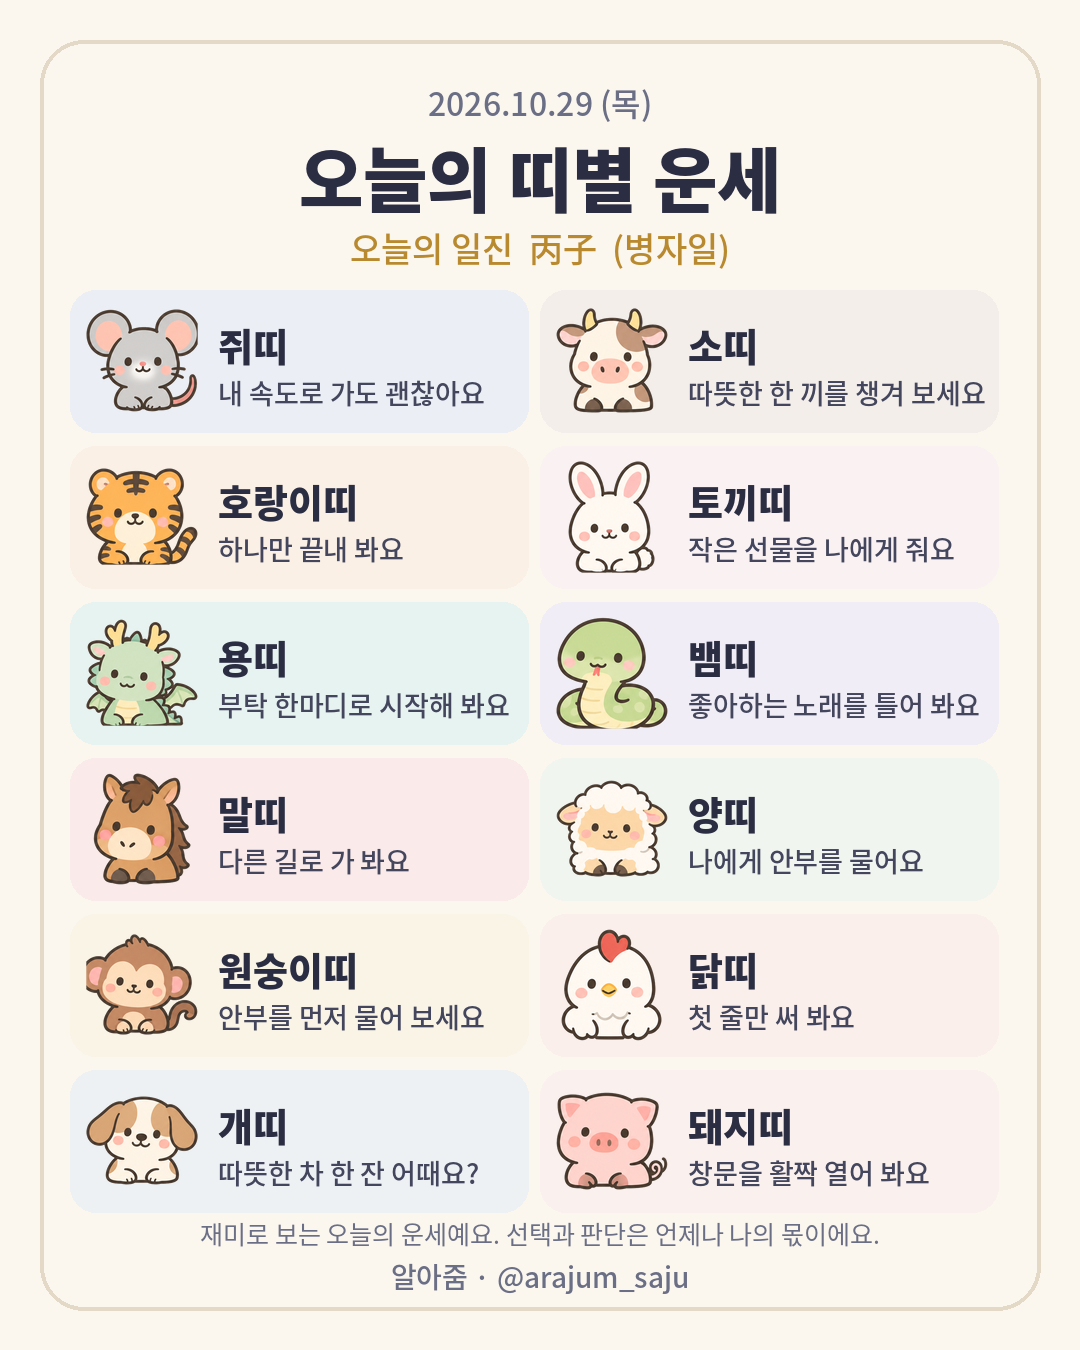
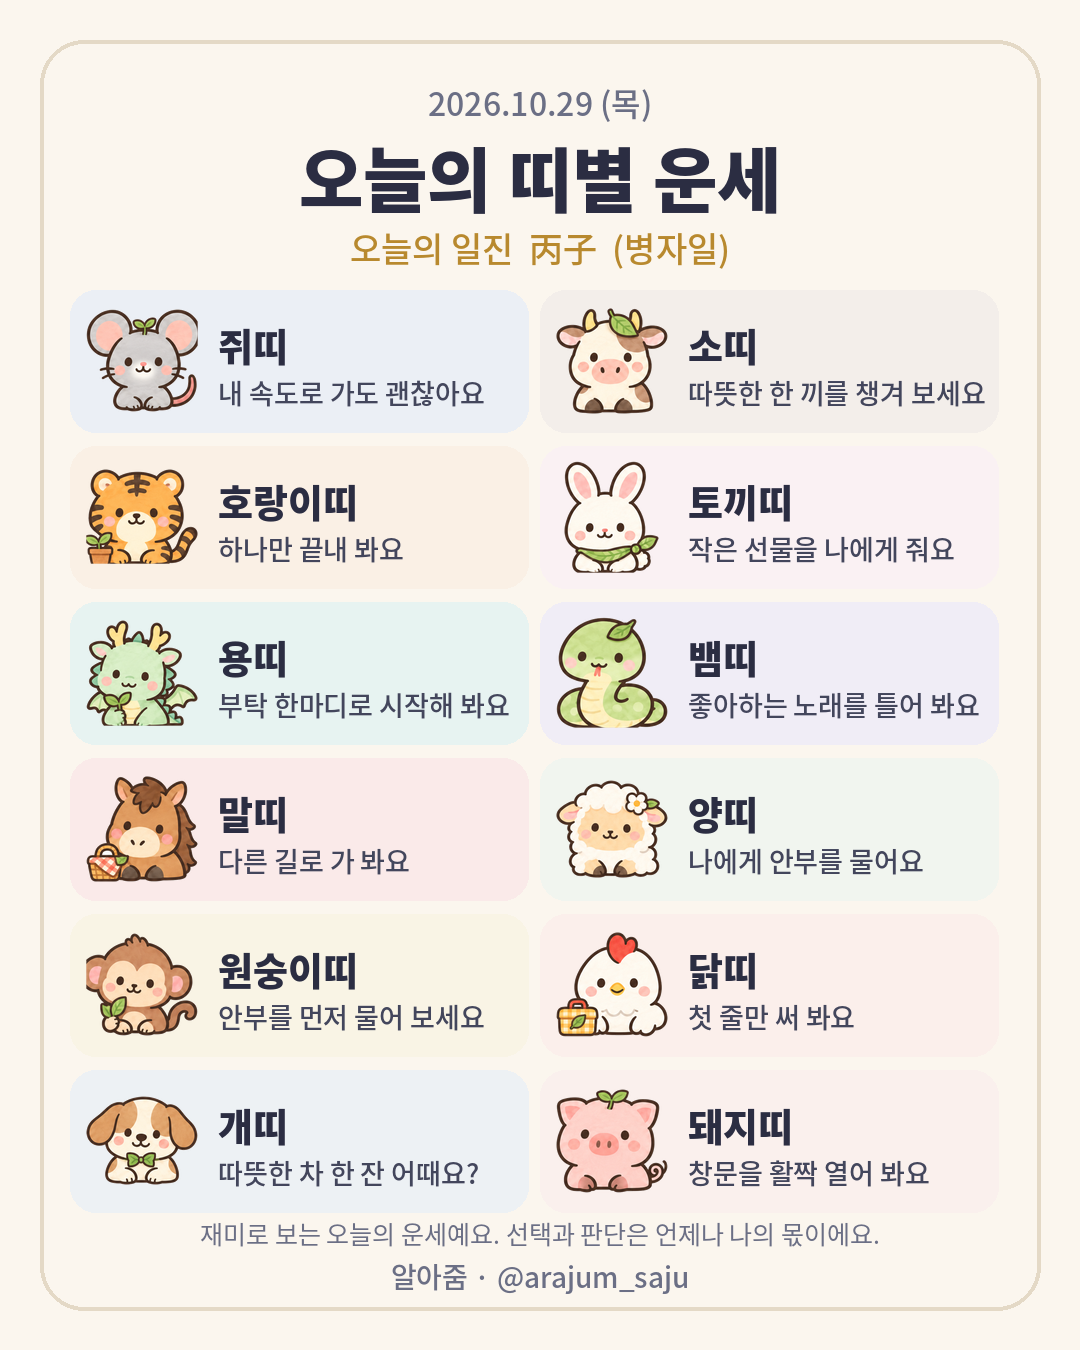
Element-themed animal sets rotating every 3 days
Claude-Session: https://claude.ai/code/session_01HgqiQRyhkZdeEVfzwScwuQ

diff --git a/tools/gen_content.py b/tools/gen_content.py
@@ -181,8 +181,11 @@ def build12(dt):
                "재미로 보는 운세예요. 선택과 판단은 언제나 나의 몫이에요.\n\n"
                "💌 오늘 내 띠가 마음에 들었다면 저장해 두고, 같은 띠 친구에게 보내 주세요.\n"
                "🤍 팔로우하면 매일 아침 따뜻한 한마디를 받아볼 수 있어요.\n\n" + tags)
+    st = date(2026, 10, 21) + __import__("datetime").timedelta(days=3 * ((dt - date(2026, 10, 21)).days // 3))
+    sn = (54 + (st - date(2000, 1, 1)).days) % 60
+    animal_set = {"木": "wood", "火": "fire", "土": "earth", "金": "metal", "水": "water"}[S_EL[sn % 10]]
     return dict(date=dt.isoformat(), date_label=f"{dt.year}.{dt.month:02d}.{dt.day:02d} ({wd})",
-                ilgin=ilgin, ilgin_ko=ilgin_ko, items=items, brand="알아줌", caption=caption)
+                ilgin=ilgin, ilgin_ko=ilgin_ko, animal_set=animal_set, items=items, brand="알아줌", caption=caption)
 
 
 if __name__ == "__main__":

diff --git a/tools/make_card12.py b/tools/make_card12.py
@@ -21,7 +21,10 @@ def render(d):
         c = by[an]; col = c["color"]
         x = x0 + (i % 2) * cw; y = y0 + (i // 2) * (ch + 8)
         dr.rounded_rectangle((x, y, x + cw - 12, y + ch - 6), 26, fill=tint(col, 0.88))
-        ic = Image.open(os.path.join(HERE, "animals", f"{an}.png")); ic.thumbnail((112, 112), Image.LANCZOS)
+        sd = os.path.join(HERE, "animals", d.get("animal_set", ""))
+        ip = os.path.join(sd, f"{an}.png")
+        if not os.path.exists(ip): ip = os.path.join(HERE, "animals", f"{an}.png")
+        ic = Image.open(ip); ic.thumbnail((112, 112), Image.LANCZOS)
         img.paste(ic, (x + 16 + (112 - ic.width) // 2, y + (ch - 6 - ic.height) // 2), ic)
         dr.text((x + 148, y + 26), f"{an}띠", font=load_font("Black", 38), fill=INK)
         f = load_font("Medium", 27); t = c["line"]

diff --git a/RUNBOOK.md b/RUNBOOK.md
@@ -15,7 +15,7 @@
 1. Buffer `list_posts`(status=scheduled)로 마지막 예약일 확인(아침/저녁 각각). 예약 총합 10건 이하로, 부족한 날부터 채운다.
 2. `git pull` 후 필요한 날짜의 `comfort/DATE/meta.json` 확인. 없으면 `gh api -X POST repos/kcabiz-cell/aljum-cards/actions/workflows/comfort-assets.yml/dispatches -f ref=main -f 'inputs[start]=YYYY-MM-DD' -f 'inputs[days]=7'` 실행, `gh api repos/kcabiz-cell/aljum-cards/actions/runs?per_page=1`로 success까지 대기 후 pull.
 3. 아침 12띠 카드: `python3 -I tools/gen_content.py DATE`(content12_DATE.json 생성) → `python3 -I tools/make_card12.py tools/content12_DATE.json cards/DATE/all12.png` → 커밋·푸시 → raw URL 200 확인 → `create_post`(text=content12_DATE.json의 caption, assets=[{image:{url:raw .../cards/DATE/all12.png}}], instagram {type:"post", shouldShareToFeed:true}, dueAt DATE 07:30+09:00).
-   (동물 그림은 tools/animals/*.png, 투명 배경. 칸 문구는 gen_content.py의 SHORT 풀에서 일진과 띠 관계로 고른다. 문구는 모두 해요체 행동 제안.)
+   (동물 그림은 오행별 5벌 tools/animals/{wood,fire,earth,metal,water}/*.png(투명 배경)이고 기본 그림은 tools/animals/*.png. 3일 단위로 그 구간 첫날 일진 천간의 오행 세트를 쓴다(gen_content.py가 content12의 animal_set에 기록, 기준일 2026-10-21). earth·metal·water는 해상도가 낮은 임시본이라 원본이 오면 교체. 칸 문구는 gen_content.py의 SHORT 풀에서 일진과 띠 관계로 고른다. 문구는 모두 해요체 행동 제안.)
 4. 저녁 일요일 이미지: `create_post` text=caption.txt, assets=[{image:{url:raw .../comfort/DATE/01.jpg}}], instagram {type:"post", shouldShareToFeed:true}, dueAt DATE 21:30+09:00.
 5. 저녁 월·수·금·토 릴스: text=caption.txt, assets=[{video:{url:raw .../comfort/DATE/reel.mp4}}], instagram {type:"reel", shouldShareToFeed:true}, dueAt DATE 21:30+09:00.
 6. 업로드 전에 사진 한두 장 확인(사람 얼굴·로고·어두움이면 해당 폴더 삭제 후 재생성).
